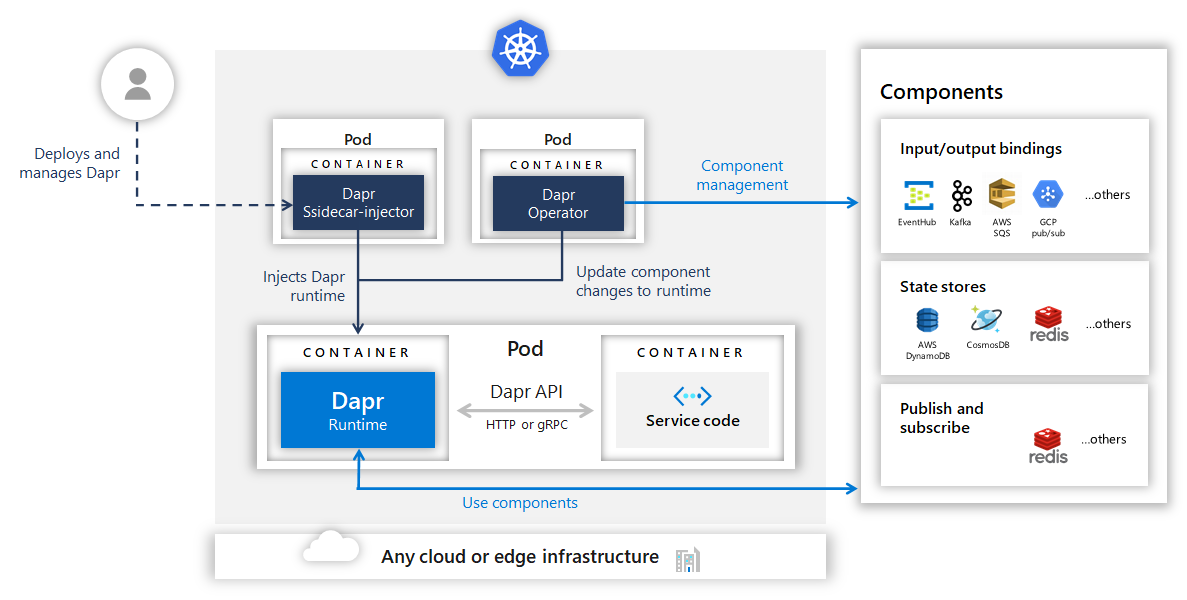
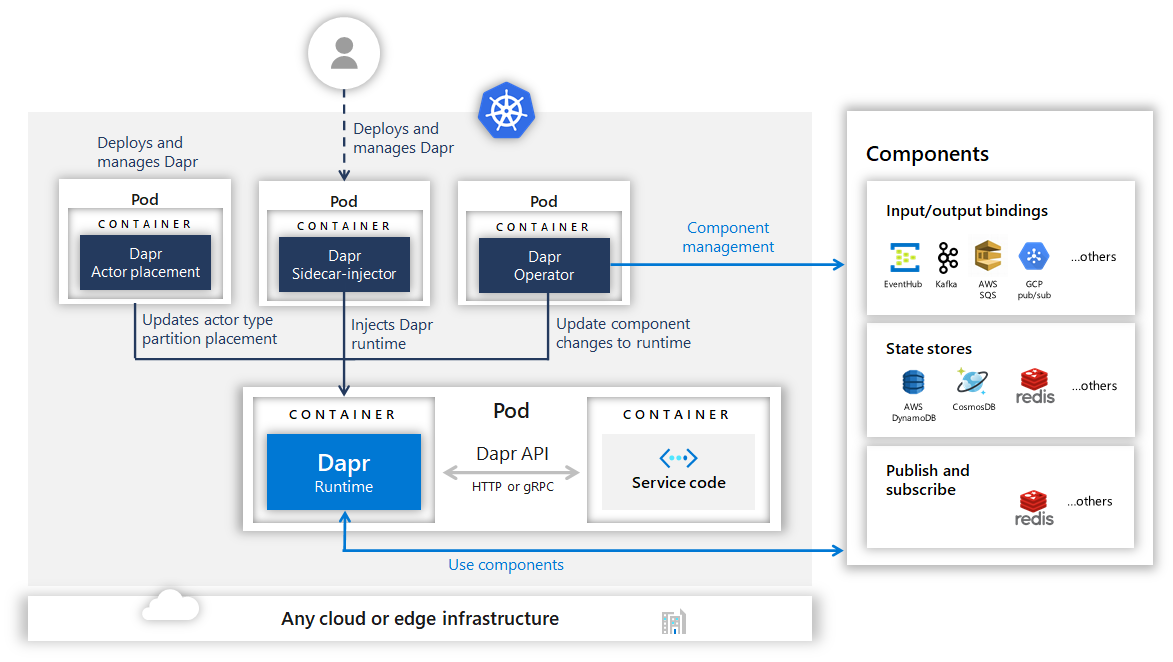
images for placement service

diff --git a/overview.md b/overview.md
@@ -60,12 +60,15 @@ You can use the [Dapr CLI](https://github.com/dapr/cli) to run services locally.
 
 ![Dapr overview](images/overview_standalone.png)
 
+For more information on the actor *Placement* service see [actor overview](/concepts/actor/actor-overview.md#distribution-and-failover) 
+
 ## Running Dapr in Kubernetes mode 
 
 Dapr can be configured to run on any [Kubernetes cluster](https://github.com/dapr/samples/tree/master/2.hello-kubernetes). In Kubernetes the *dapr-sidecar-injector* and *dapr-operator* services provide first class integration to launch Dapr as a sidecar container in the same pod as the service and provides notifications of Dapr component updates provisioned into the cluster.
  
-
 ![Dapr overview](images/overview_kubernetes.png)
+
+For more information on the actor *Placement* service see [actor overview](/concepts/actor/actor-overview.md#distribution-and-failover) 
 
 In order to give your service an id and port known to Dapr and launch the Dapr sidecar container, you simply annotate your deployment like this.
 
